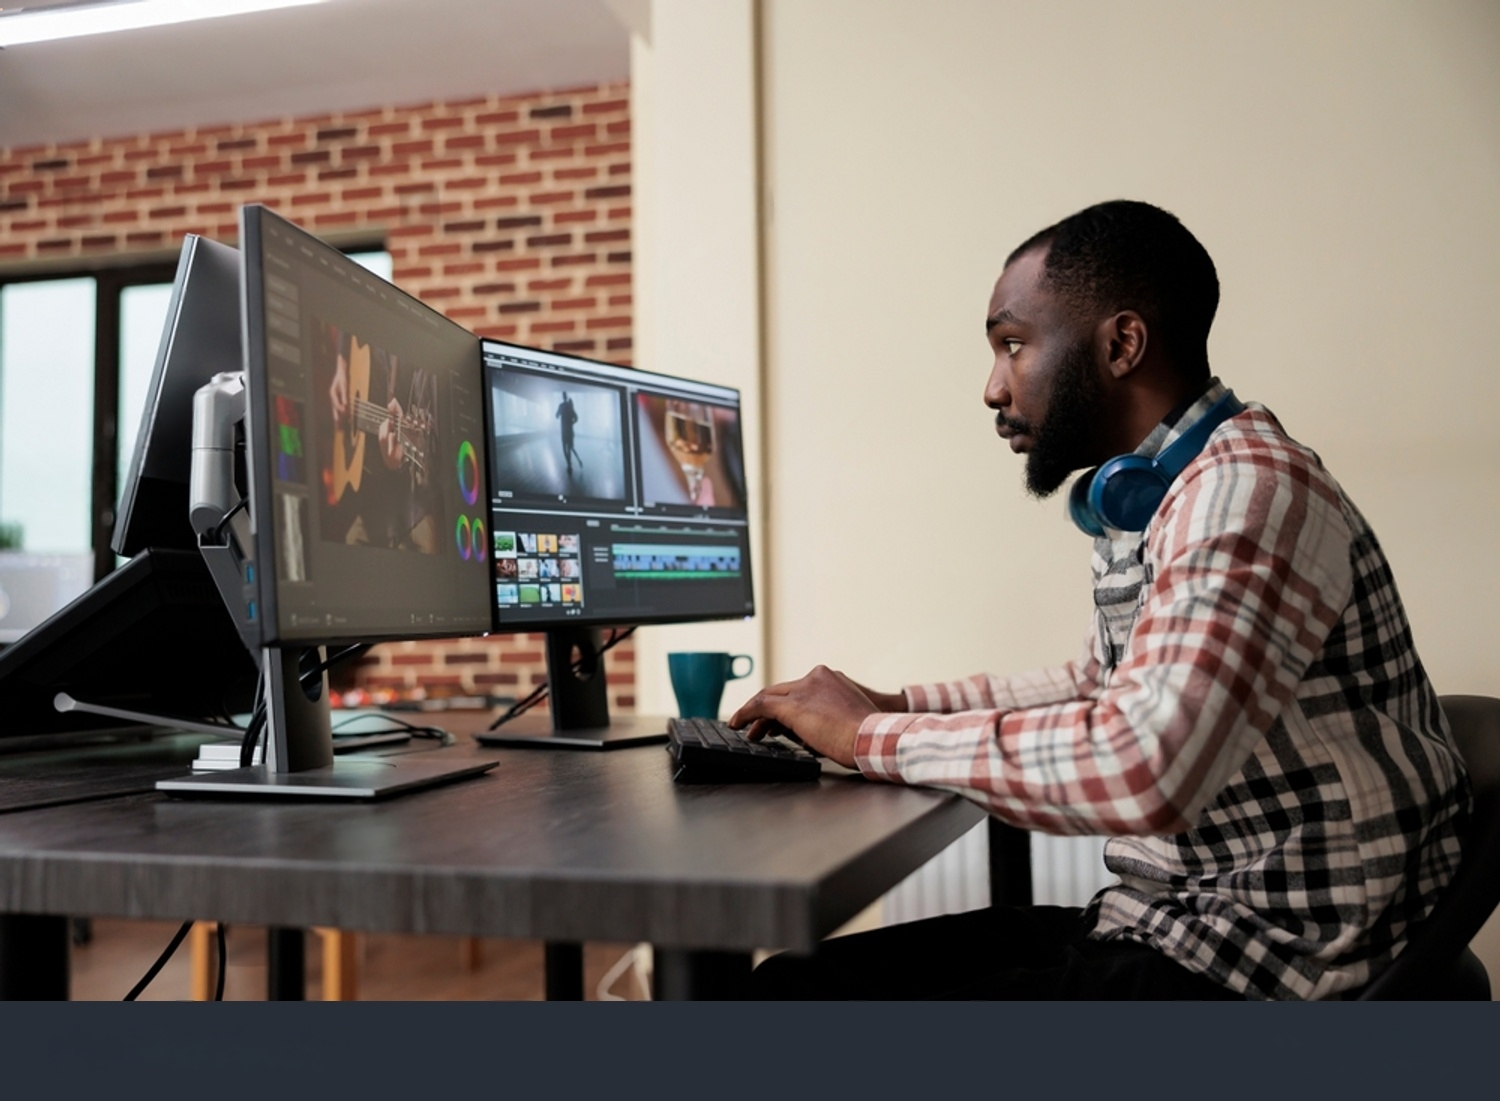
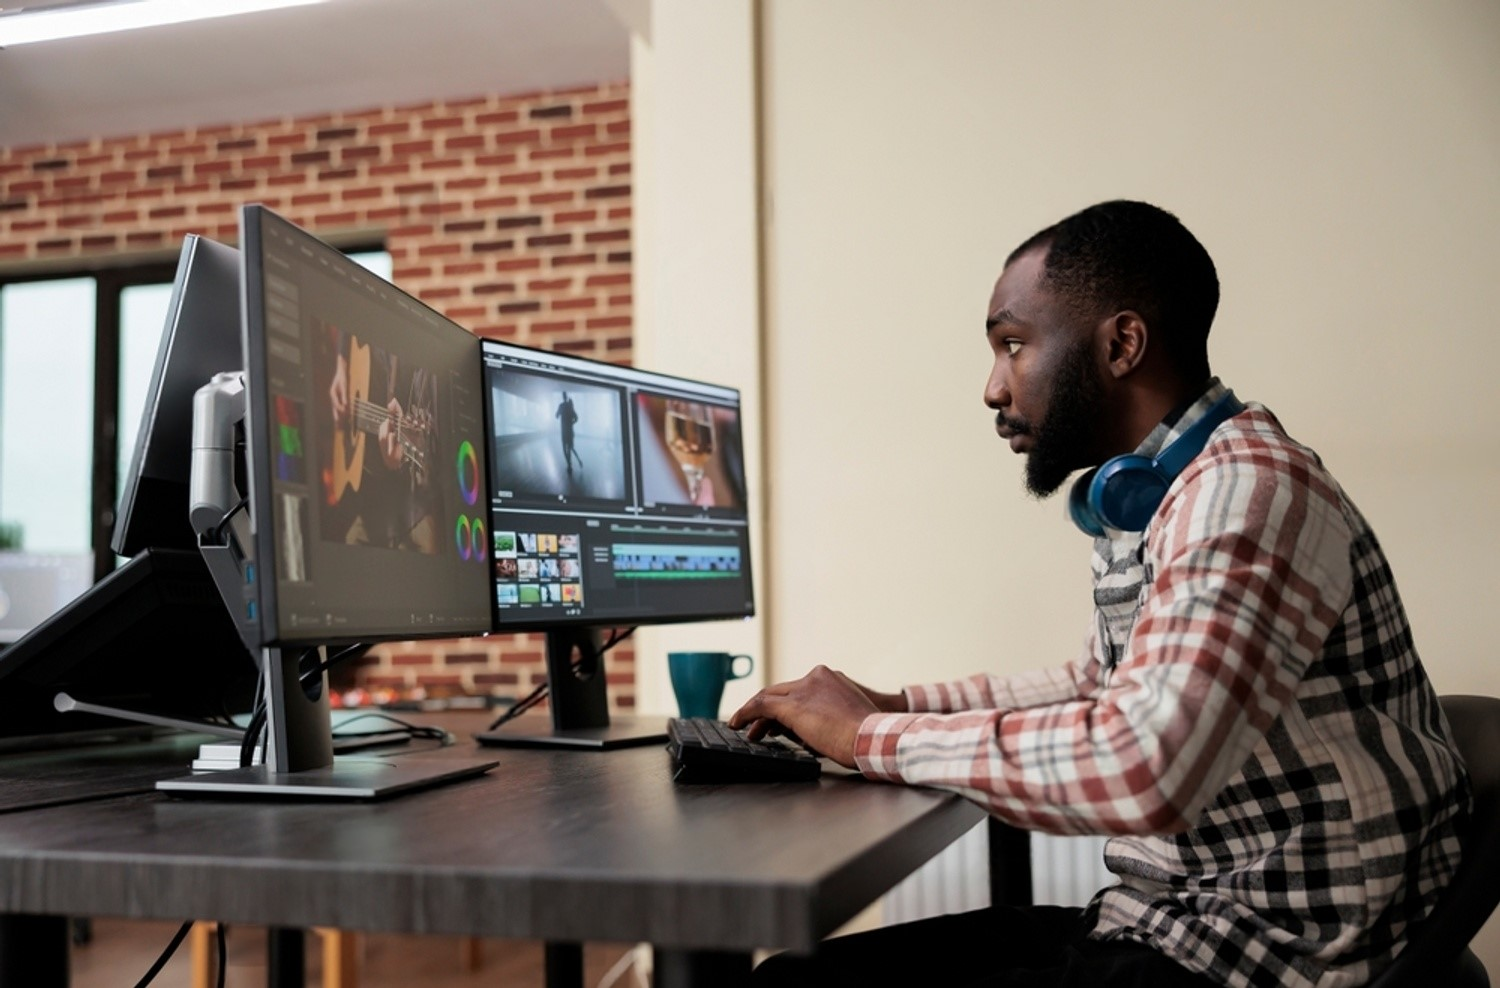
fix: adjust object position for images in influencer marketing and photography pages

diff --git a/src/app/solutions/influencer-marketing/page.tsx b/src/app/solutions/influencer-marketing/page.tsx
@@ -314,6 +314,7 @@ export default function InfluencerMarketingPage() {
                   alt="Influencer Marketing Services"
                   fill
                   style={{ objectFit: 'cover' }}
+                  objectPosition='top 10% left 50%'
                   className="transition-transform duration-700 hover:scale-105"
                 />
               </div>

diff --git a/src/app/solutions/photography/page.tsx b/src/app/solutions/photography/page.tsx
@@ -277,6 +277,7 @@ export default function PhotographyPage() {
                   alt="Video Production Services"
                   fill
                   style={{ objectFit: 'cover' }}
+                  objectPosition='top 50% '
                   className="transition-transform duration-700 hover:scale-105"
                 />
               </div>
